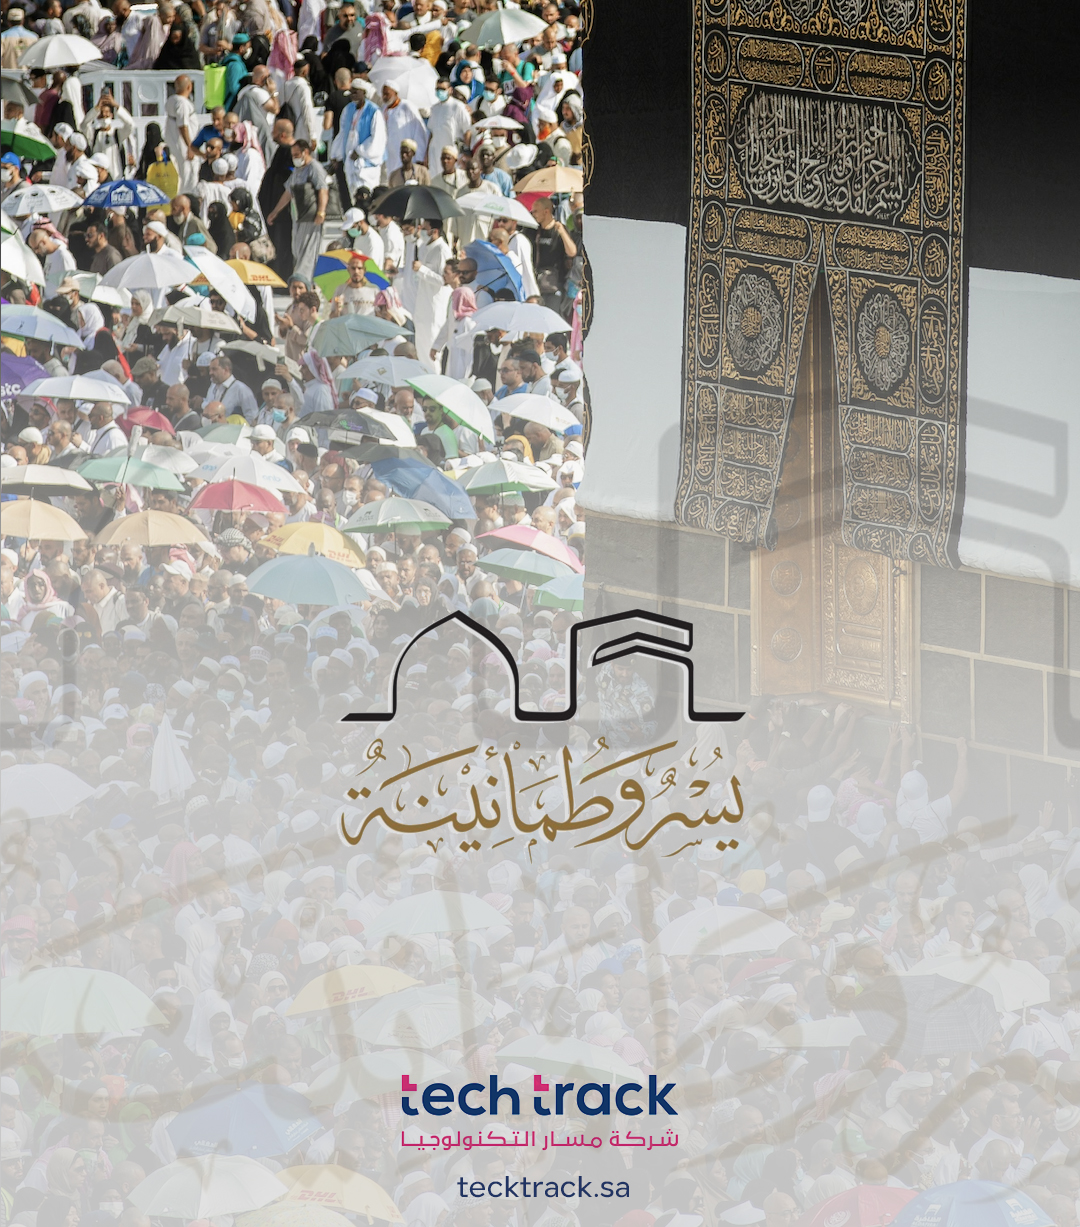
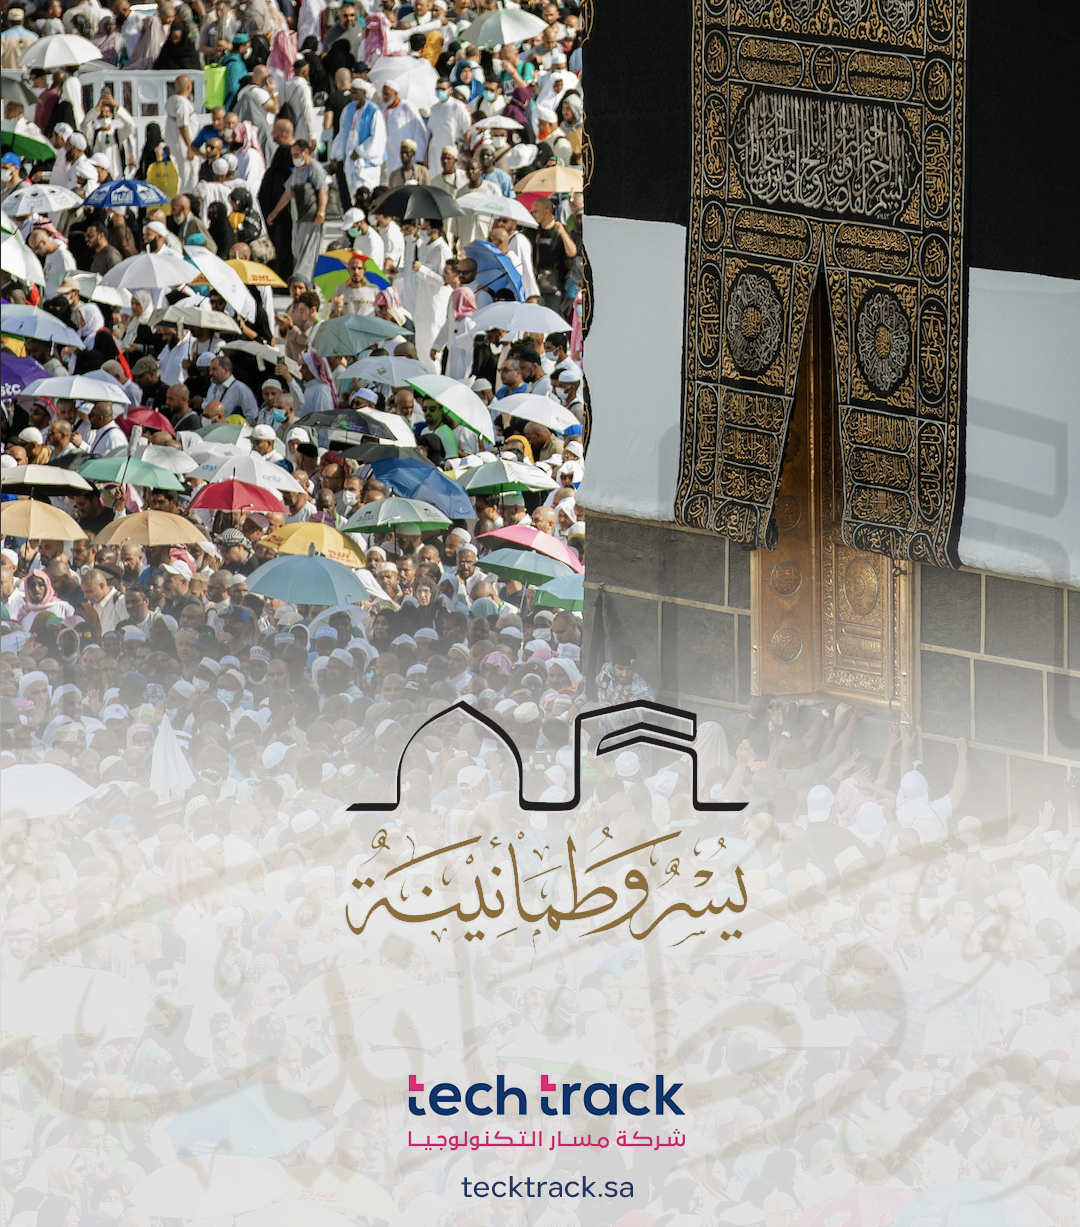
color

diff --git a/main.js b/main.js
@@ -35,9 +35,9 @@ function make_base() {
 
     context.clearRect(0, 0, canvas.width, canvas.height);
     context.drawImage(base_image, 0, 0, canvas.width, canvas.height);
-    context.font = "bold 36px DINNextLTW23-Regular";
+    context.font = "bold 40px DINNextLTW23-Regular";
     context.textAlign = "center";
-    context.fillStyle = "#c2185b";
+    context.fillStyle = "#795a2a";
     context.fillText(" " + textInput, 550, 1000);
 
     document.getElementById("theimage").src = canvas.toDataURL();
